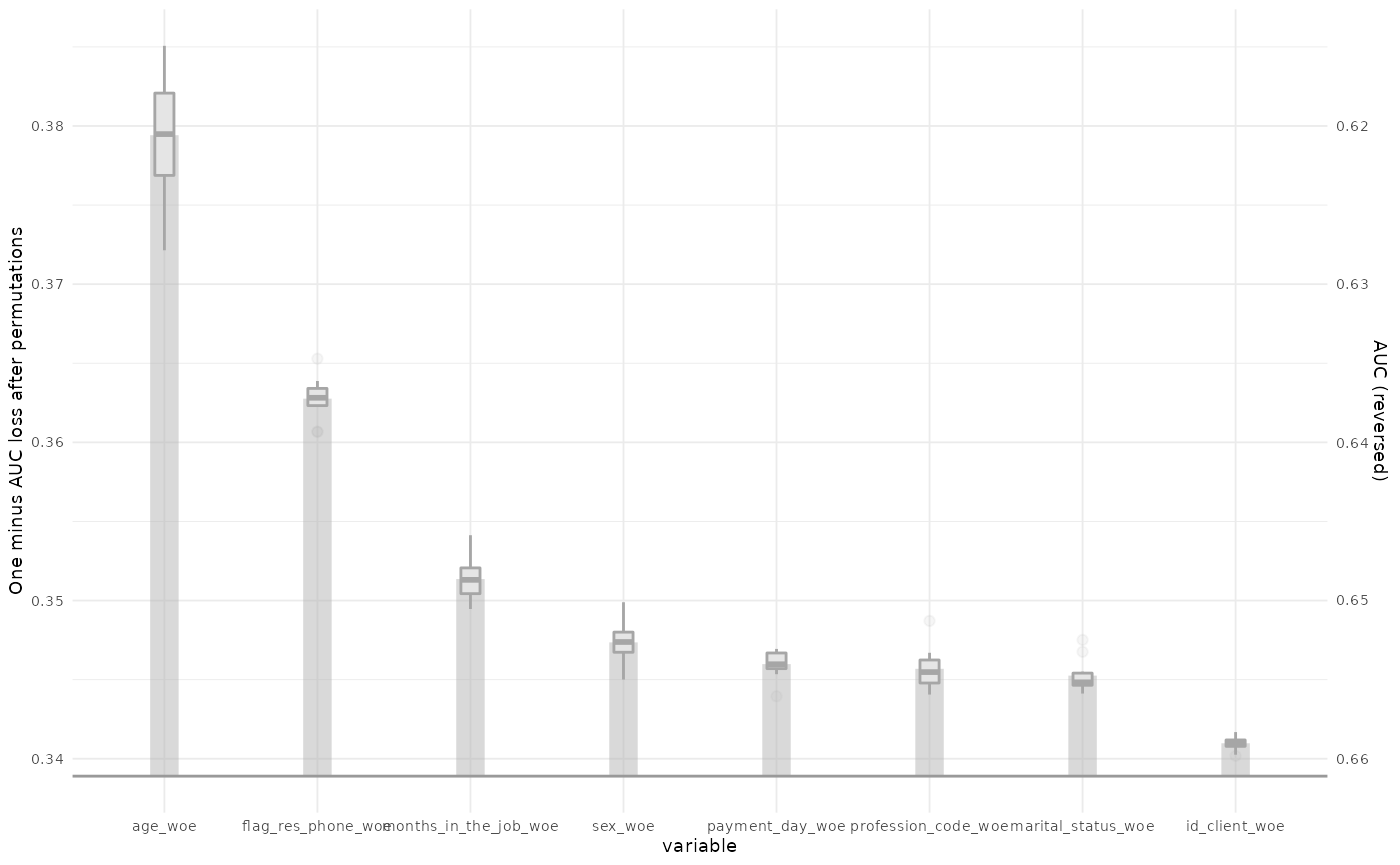
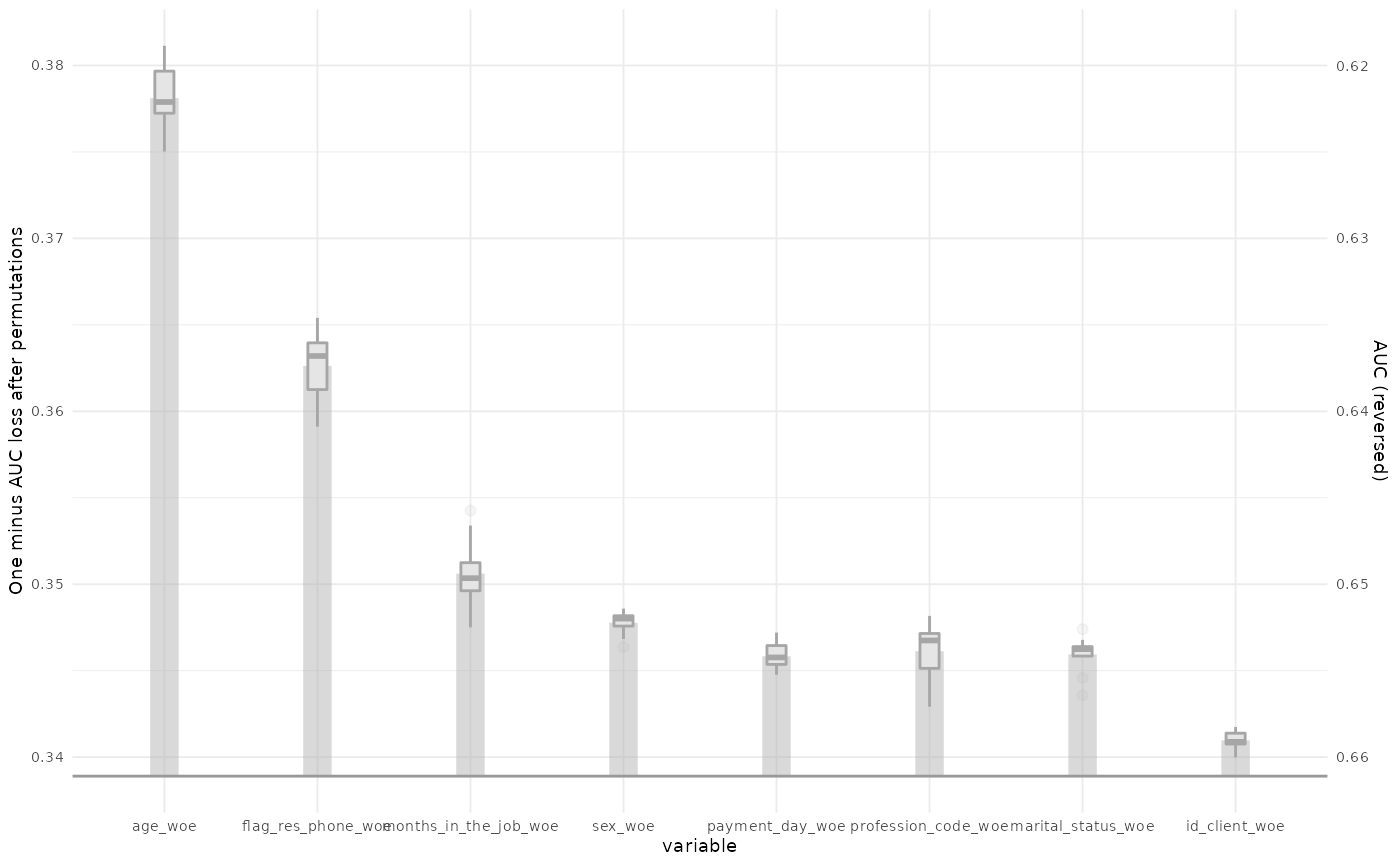
build pkgdown

diff --git a/docs/articles/predictive-metrics.html b/docs/articles/predictive-metrics.html
@@ -112,18 +112,18 @@
 <span class="co">#&gt; # A tibble: 1 × 4</span>
 <span class="co">#&gt;      ks   auc    iv  gini</span>
 <span class="co">#&gt;   &lt;dbl&gt; &lt;dbl&gt; &lt;dbl&gt; &lt;dbl&gt;</span>
-<span class="co">#&gt; 1 0.497 0.833  1.64 0.667</span></code></pre></div>
+<span class="co">#&gt; 1 0.516 0.841  1.84 0.681</span></code></pre></div>
 <p>Remove <code>NA</code> if are present.</p>
 <div class="sourceCode" id="cb2"><pre class="downlit sourceCode r">
 <code class="sourceCode R"><span class="va">predicted2</span> <span class="op">&lt;-</span> <span class="va">predicted</span>
 <span class="va">predicted2</span><span class="op">[</span><span class="fu"><a href="https://rdrr.io/r/base/sample.html">sample</a></span><span class="op">(</span><span class="fu"><a href="https://rdrr.io/r/base/c.html">c</a></span><span class="op">(</span><span class="cn">TRUE</span>, <span class="cn">FALSE</span><span class="op">)</span>, size <span class="op">=</span> <span class="va">N</span>, prob <span class="op">=</span> <span class="fu"><a href="https://rdrr.io/r/base/c.html">c</a></span><span class="op">(</span><span class="fl">1</span>, <span class="fl">99</span><span class="op">)</span>, replace <span class="op">=</span> <span class="cn">TRUE</span><span class="op">)</span><span class="op">]</span> <span class="op">&lt;-</span> <span class="cn">NA</span>
 
 <span class="fu"><a href="../reference/metrics.html">metrics</a></span><span class="op">(</span><span class="va">actual</span>, <span class="va">predicted2</span><span class="op">)</span>
-<span class="co">#&gt; 82 of 10000 'predicted' values are NAs, they will be ignorated</span>
+<span class="co">#&gt; 110 of 10000 'predicted' values are NAs, they will be ignorated</span>
 <span class="co">#&gt; # A tibble: 1 × 4</span>
 <span class="co">#&gt;      ks   auc    iv  gini</span>
 <span class="co">#&gt;   &lt;dbl&gt; &lt;dbl&gt; &lt;dbl&gt; &lt;dbl&gt;</span>
-<span class="co">#&gt; 1 0.496 0.828  1.64 0.656</span></code></pre></div>
+<span class="co">#&gt; 1 0.516 0.833  1.82 0.666</span></code></pre></div>
 <div id="using-a-glm-model" class="section level2">
 <h2 class="hasAnchor">
 <a href="#using-a-glm-model" class="anchor"></a>Using a glm model</h2>
@@ -136,7 +136,7 @@
 <span class="co">#&gt; # A tibble: 1 × 4</span>
 <span class="co">#&gt;      ks   auc    iv  gini</span>
 <span class="co">#&gt;   &lt;dbl&gt; &lt;dbl&gt; &lt;dbl&gt; &lt;dbl&gt;</span>
-<span class="co">#&gt; 1 0.497 0.833  1.63 0.667</span></code></pre></div>
+<span class="co">#&gt; 1 0.516 0.841  1.84 0.681</span></code></pre></div>
 <p>Works with new data.</p>
 <div class="sourceCode" id="cb4"><pre class="downlit sourceCode r">
 <code class="sourceCode R"><span class="va">new_daux</span> <span class="op">&lt;-</span> <span class="fu"><a href="https://rdrr.io/r/utils/head.html">head</a></span><span class="op">(</span><span class="va">daux</span>, <span class="fl">1000</span><span class="op">)</span>
@@ -145,7 +145,7 @@
 <span class="co">#&gt; # A tibble: 1 × 4</span>
 <span class="co">#&gt;      ks   auc    iv  gini</span>
 <span class="co">#&gt;   &lt;dbl&gt; &lt;dbl&gt; &lt;dbl&gt; &lt;dbl&gt;</span>
-<span class="co">#&gt; 1 0.513 0.837  2.05 0.675</span></code></pre></div>
+<span class="co">#&gt; 1 0.520 0.843  2.22 0.686</span></code></pre></div>
 </div>
   </div>
 
